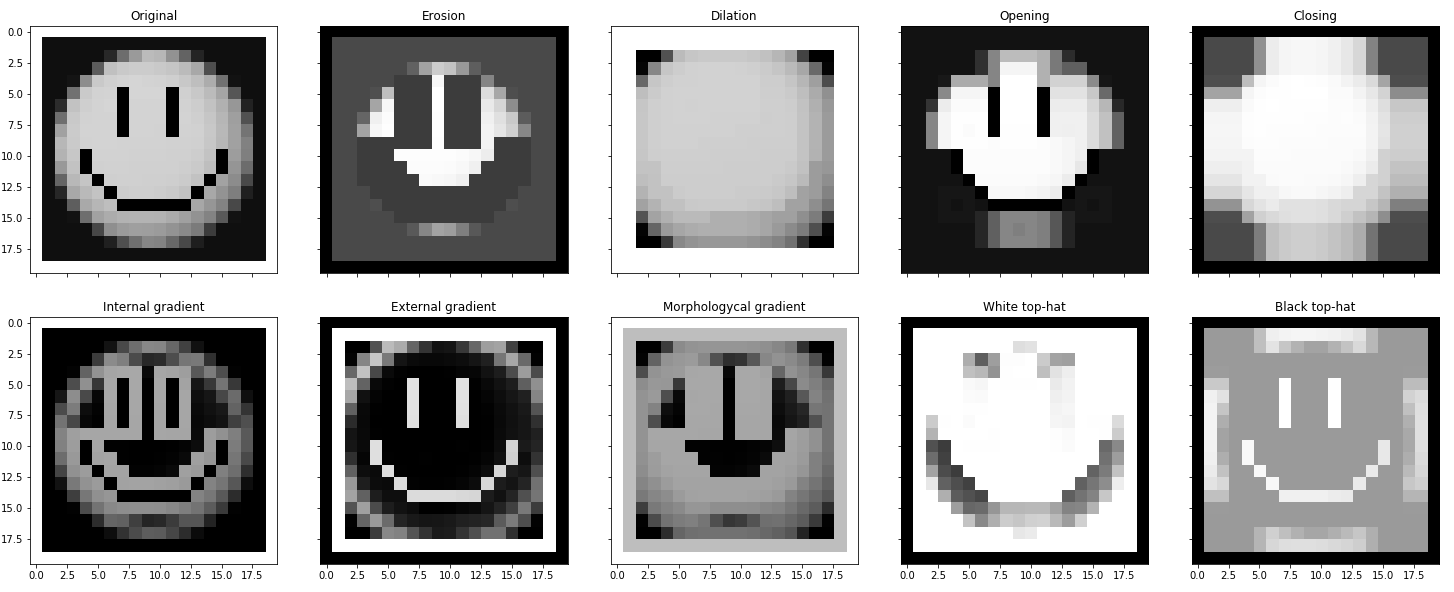
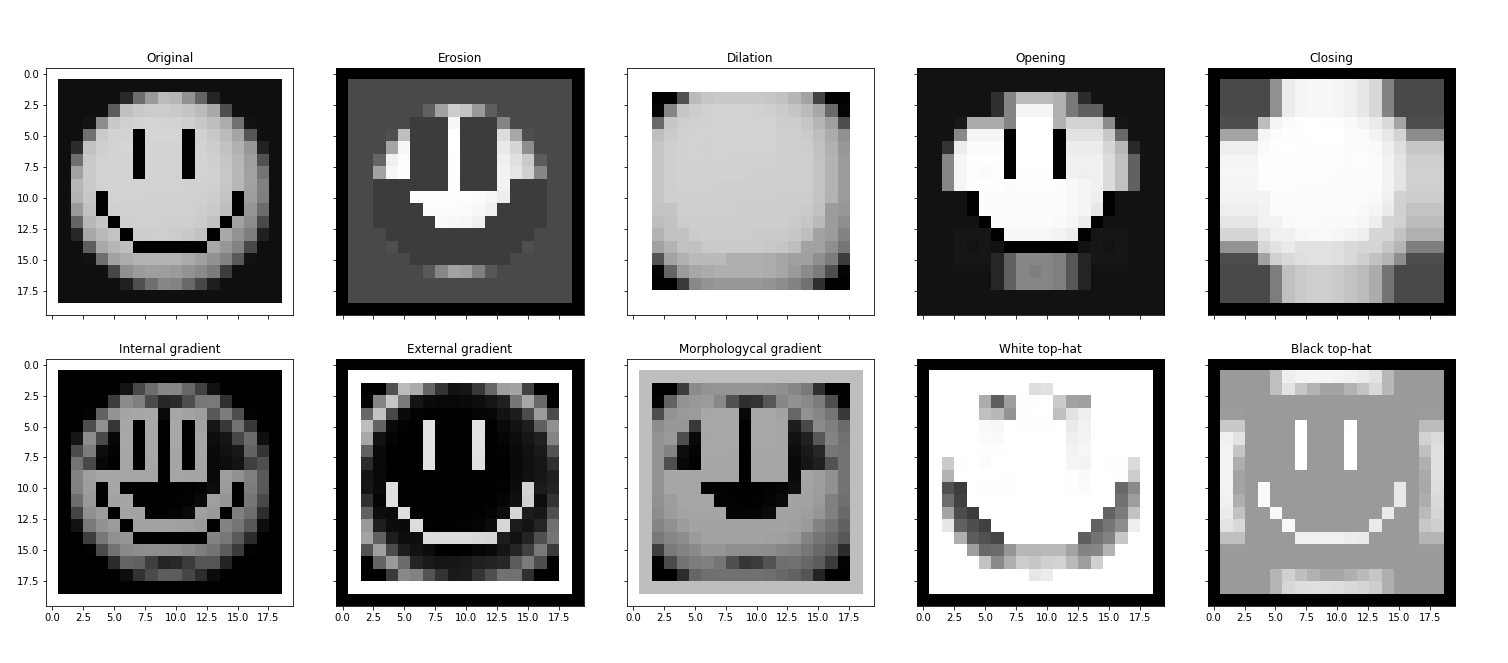
Using map instead of a for loop to process each pixel from an image

diff --git a/test_morph.py b/test_morph.py
@@ -85,65 +85,65 @@ class TestGrayscaleMorphOps(unittest.TestCase):
     def test_erosion(self):
         img_result = io.imread("test_images/grayscale_er.png")
         er = morph_filter('er', self.img, as_gray=True)
-        er = (er*255).astype(np.int64)
+        er = (er*255)
         er = np.abs(er)
-        self.assertTrue(np.array_equal(er, img_result))
+        self.assertTrue(er.all() == img_result.all())
 
     def test_dilation(self):
         img_result = io.imread("test_images/grayscale_di.png", as_grey=True)
         di = morph_filter('di', self.img, as_gray=True)
-        di = (di*255).astype(np.int64)
+        di = (di*255)
         di = np.abs(di)
-        self.assertTrue(np.array_equal(di, img_result))
+        self.assertTrue(di.all() == img_result.all())
 
     def test_opening(self):
         img_result = io.imread("test_images/grayscale_op.png", as_grey=True)
         op = morph_filter('op', self.img, as_gray=True)
-        op = (op*255).astype(np.int64)
+        op = (op*255)
         op = np.abs(op)
-        self.assertTrue(np.array_equal(op, img_result))
+        self.assertTrue(op.all() == img_result.all())
 
     def test_closing(self):
         img_result = io.imread("test_images/grayscale_cl.png", as_grey=True)
         cl = morph_filter('cl', self.img, as_gray=True)
-        cl = (cl*255).astype(np.int64)
+        cl = (cl*255)
         cl = np.abs(cl)
-        self.assertTrue(np.array_equal(cl, img_result))
+        self.assertTrue(cl.all() == img_result.all())
 
     def test_internal_gradient(self):
         img_result = io.imread("test_images/grayscale_ig.png", as_grey=True)
         ig = morph_filter('ig', self.img, as_gray=True)
-        ig = (ig*255).astype(np.int64)
+        ig = (ig*255)
         ig = np.abs(ig)
-        self.assertTrue(np.array_equal(ig, img_result))
+        self.assertTrue(ig.all() == img_result.all())
 
     def test_external_gradient(self):
         img_result = io.imread("test_images/grayscale_eg.png", as_grey=True)
         eg = morph_filter('eg', self.img, as_gray=True)
-        eg = (eg*255).astype(np.int64)
+        eg = (eg*255)
         eg = np.abs(eg)
-        self.assertTrue(np.array_equal(eg, img_result))
+        self.assertTrue(eg.all() == img_result.all())
 
     def test_morphologycal_gradient(self):
         img_result = io.imread("test_images/grayscale_mg.png", as_grey=True)
         mg = morph_filter('mg', self.img, as_gray=True)
-        mg = (mg*255).astype(np.int64)
+        mg = (mg*255)
         mg = np.abs(mg)
-        self.assertTrue(np.array_equal(mg, img_result))
+        self.assertTrue(mg.all() == img_result.all())
 
     def test_white_top_hat(self):
         img_result = io.imread("test_images/grayscale_wth.png", as_grey=True)
         wth = morph_filter('wth', self.img, as_gray=True)
-        wth = (wth*255).astype(np.int64)
+        wth = (wth*255)
         wth = np.abs(wth)
-        self.assertTrue(np.array_equal(wth, img_result))
+        self.assertTrue(wth.all() == img_result.all())
 
     def test_black_top_hat(self):
         img_result = io.imread("test_images/grayscale_bth.png", as_grey=True)
         bth = morph_filter('bth', self.img, as_gray=True)
-        bth = (bth*255).astype(np.int64)
+        bth = (bth*255)
         bth = np.abs(bth)
-        self.assertTrue(np.array_equal(bth, img_result))
+        self.assertTrue(bth.all() == img_result.all())
 
 class TestMorphOpAppliedMultipleTimes(unittest.TestCase):
     """Test applying a morphologycal operation multiple times"""
@@ -220,19 +220,19 @@ class TestDifferentSelemSizes(unittest.TestCase):
         selem = np.ones((3, 3), dtype=np.uint8)
         img_result = io.imread("test_images/erosion_3x3_selem.png", as_grey=True)
         eroded = morph_filter('er', self.img, selem)
-        self.assertTrue(np.array_equal(eroded*255, img_result))
+        self.assertTrue((eroded*255).all() == img_result.all())
 
     def test_5x5_selem(self):
         selem = np.ones((5, 5), dtype=np.uint8)
         img_result = io.imread("test_images/erosion_5x5_selem.png", as_grey=True)
         eroded = morph_filter('er', self.img, selem)
-        self.assertTrue(np.array_equal(eroded*255, img_result))
+        self.assertTrue((eroded*255).all() == img_result.all())
 
     def test_7x7_selem(self):
         selem = np.ones((7, 7), dtype=np.uint8)
         img_result = io.imread("test_images/erosion_7x7_selem.png", as_grey=True)
         eroded = morph_filter('er', self.img, selem)
-        self.assertTrue(np.array_equal(eroded*255, img_result))
+        self.assertTrue((eroded*255).all() == img_result.all())
 
 class TestMorphReconstruction(unittest.TestCase):
     """Test morphologycal reconstruction operation"""
@@ -247,4 +247,4 @@ class TestMorphReconstruction(unittest.TestCase):
     def test_morphologycal_reconstruction(self):
         mark = io.imread("test_images/morph_recon_mark.png")
         recon = morphologycal_reconstruction(mark, self.img, False, sel=self.selem)
-        self.assertTrue(np.array_equal(recon*255, self.img_result))
+        self.assertTrue((recon*255).all() == self.img.all())

diff --git a/morph.py b/morph.py
@@ -2,9 +2,12 @@
     using the given structuring element.
     author: @pazitos10
 """
+from itertools import product
 import matplotlib.pyplot as plt
 import numpy as np
 
+_WIDTH = 0
+_HEIGHT = 0
 _SELEM = np.ones((3, 3), dtype=np.int64)
 
 def show(img, show_grid=True, show_ticks=False):
@@ -27,7 +30,7 @@ def _center_img(img):
     img = apply_threshold(img)
     centered_img = np.ones_like(img, dtype=np.int64)
     half_w, half_h = centered_img.shape[0]//2, centered_img.shape[1]//2
-    cr_img = _crop_zero_values(img, True)
+    cr_img = crop_zero_values(img, True)
     cr_w, cr_h = cr_img.shape
     center_y = half_h - (cr_h // 2)
     center_x = half_w - (cr_w // 2)
@@ -43,11 +46,12 @@ def apply_threshold(img, threshold=.5):
 
 def _selem_is_contained_in(window):
     """Returns True if ee is contained in win. Otherwise, returns False"""
-    selem_white_idx = np.where(_SELEM.flatten() == 1)
-    return np.array_equal(np.take(window, selem_white_idx),
-                          np.take(_SELEM, selem_white_idx))
+    selem_white_idx = np.where(_SELEM.flatten() == 1)[0]
+    selem_sum = np.sum(_SELEM)
+    win_sum = np.sum(np.take(window, selem_white_idx))
+    return True if win_sum == selem_sum else False
 
-def _crop_zero_values(img, inverted=False):
+def crop_zero_values(img, inverted=False):
     """Crop zero values from the image boundaries returning a new image without empty borders"""
     width, height = img.shape
     xmin, xmax = 0, width
@@ -59,26 +63,36 @@ def _crop_zero_values(img, inverted=False):
         ymin, ymax = min(ones_y), max(ones_y)
     return img[xmin:xmax+1, ymin:ymax+1]
 
+def add_padding(img, radius):
+    width, height = img.shape
+    pad_img_shape = (width + radius - 1, height + radius - 1)
+    pad_img = np.zeros(pad_img_shape).astype(np.float64)
+    pad_img[radius-2:(width + radius-2), radius-2:(height + radius-2)] = img
+    return pad_img
+
+def process_pixel(pixel_coord, operation, as_gray, img):
+    i, j = pixel_coord
+    radius = _SELEM.shape[0]
+    neighbors = img[i:i+radius, j:j+radius]
+    if as_gray:
+        neighbors = np.delete(neighbors.flatten(), radius+1)
+    return operation(neighbors, as_gray)
+
 def _apply_filter(operation, img, as_gray, n_iterations, sel):
     """Applies a morphological operator a certain number of times (n_iterations) to an image"""
-    global _SELEM
-    img = img if as_gray else apply_threshold(img)
+    global _SELEM, _WIDTH, _HEIGHT
     _SELEM = sel
-    width, height = img.shape
+    orig_width, orig_height = _WIDTH, _HEIGHT
+    img = img if as_gray else apply_threshold(img)
     radius = _SELEM.shape[0]
-    pad_img_shape = (width + radius - 1, height + radius - 1)
+    width, height = img.shape
+    prod = product(range(width), range(height))
+    pad_img = add_padding(img, radius)
+    img_result = []
     if n_iterations >= 1:
-        pad_img = np.zeros(pad_img_shape).astype(np.float64)
-        pad_img[radius-2:(width + radius-2), radius-2:(height + radius-2)] = img
-        img_result = np.zeros(pad_img_shape).astype(np.float64)
-        for i in range(width):
-            for j in range(height):
-                neighbors = pad_img[i:i+radius, j:j+radius]
-                if as_gray:
-                    neighbors = np.delete(neighbors.flatten(), radius+1)
-                img_result[i+1, j+1] = operation(neighbors, as_gray)
-
-        img_result = img_result[radius-2:width+radius-2, radius-2:height+radius-2]
+        seq = map(lambda pixel_coord: process_pixel(pixel_coord, operation, as_gray, pad_img), prod)
+        img_result = np.fromiter(list(seq), dtype=np.float)
+        img_result = img_result.reshape((orig_width, orig_height))
         return _apply_filter(operation, img_result, as_gray, n_iterations-1, sel)
     return img
 
@@ -152,8 +166,9 @@ def _black_top_hat(img, as_gray, n_iterations, sel):
 
 def morphologycal_reconstruction(mark, mask, as_gray, sel):
     """Reconstructs objects in an image based on a mark and a mask (original image)"""
-    if not as_gray:
-        mask = apply_threshold(mask)
+    global _WIDTH, _HEIGHT
+    _WIDTH, _HEIGHT = mask.shape
+    mask = mask if as_gray else apply_threshold(mask)
     done = False
     prev_reconst = np.zeros_like(mark)
     aux = mark
@@ -184,4 +199,6 @@ def morph_filter(operator='er',
                  n_iterations=1,
                  as_gray=False):
     """Allows to apply multiple morphologycal operations over an image"""
+    global _WIDTH, _HEIGHT
+    _WIDTH, _HEIGHT = img.shape
     return _OPS[operator](img, as_gray, n_iterations, sel)
